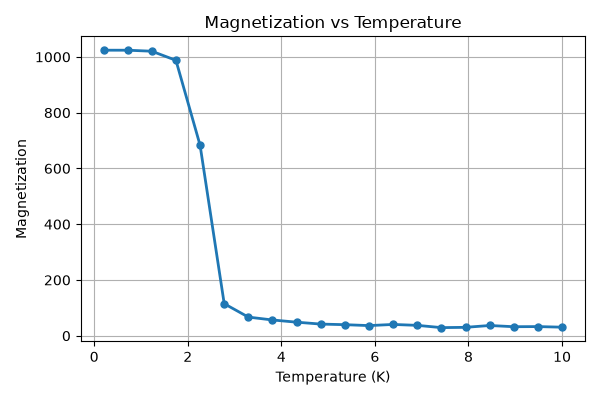
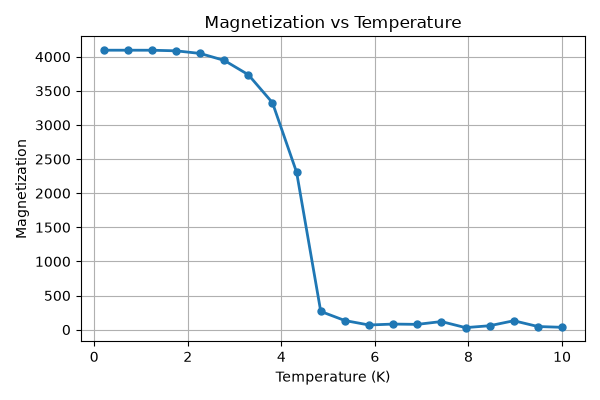
Add 3D Ising model support

diff --git a/src/algorithms.py b/src/algorithms.py
@@ -26,33 +26,26 @@ class WolffAlgorithm:
         spins = self.lattice.spins
         N = self.lattice.size
 
-        i0 = np.random.randint(N)
-        j0 = np.random.randint(N)
+        seed = tuple(np.random.randint(N) for _ in range(self.lattice.dimension))
 
-        spin0 = spins[i0, j0]
+        spin0 = spins[seed]
 
         in_cluster = np.zeros_like(spins, dtype=bool)
-        in_cluster[i0, j0] = True
+        in_cluster[seed] = True
 
-        stack = [(i0, j0)]
+        stack = [seed]
 
         while stack:
-            i, j = stack.pop()
 
-            neighbors = [
-                (self.lattice.wrap_index(i + 1), j),
-                (self.lattice.wrap_index(i - 1), j),
-                (i, self.lattice.wrap_index(j + 1)),
-                (i, self.lattice.wrap_index(j - 1)),
-            ]
+            site = stack.pop()
 
-            for ni, nj in neighbors:
+            for neighbor in self.lattice.neighbors(site):
                 if (
-                    not in_cluster[ni, nj]
-                    and spins[ni, nj] == spin0
+                    not in_cluster[neighbor]
+                    and spins[neighbor] == spin0
                     and np.random.random() < self.bond_probability
                 ):
-                    in_cluster[ni, nj] = True
-                    stack.append((ni, nj))
+                    in_cluster[neighbor] = True
+                    stack.append(neighbor)
 
         spins[in_cluster] *= -1

diff --git a/src/observables.py b/src/observables.py
@@ -7,24 +7,29 @@ def energy(spins: np.ndarray) -> float:
     """
 
     lattice_size = spins.shape[0]
+    dimension = spins.ndim
 
     total_energy = 0.0
 
-    for i in range(lattice_size):
-        for j in range(lattice_size):
+    for site in np.ndindex(spins.shape):
 
-            spin = spins[i, j]
+        spin = spins[site]
+        neighbor_sum = 0
 
-            neighbors = (
-                spins[(i + 1) % lattice_size, j]
-                + spins[(i - 1) % lattice_size, j]
-                + spins[i, (j + 1) % lattice_size]
-                + spins[i, (j - 1) % lattice_size]
-            )
+        for axis in range(dimension):
 
-            total_energy += -spin * neighbors
+            positive = list(site)
+            negative = list(site)
 
-    return total_energy / 4.0
+            positive[axis] = (positive[axis] + 1) % lattice_size
+            negative[axis] = (negative[axis] - 1) % lattice_size
+
+            neighbor_sum += spins[tuple(positive)]
+            neighbor_sum += spins[tuple(negative)]
+
+        total_energy += -spin * neighbor_sum
+
+    return total_energy / (2 * dimension)
 
 
 def magnetization(spins: np.ndarray) -> float:

diff --git a/src/lattice.py b/src/lattice.py
@@ -38,3 +38,26 @@ class IsingLattice:
         """
 
         return index % self.size
+    
+    def neighbors(
+        self,
+        site: tuple[int, ...],
+    ) -> list[tuple[int, ...]]:
+        """
+        Return nearest neighbors of a lattice site.
+        """
+
+        neighbors = []
+
+        for axis in range(self.dimension):
+
+            positive = list(site)
+            negative = list(site)
+
+            positive[axis] = self.wrap_index(positive[axis] + 1)
+            negative[axis] = self.wrap_index(negative[axis] - 1)
+
+            neighbors.append(tuple(positive))
+            neighbors.append(tuple(negative))
+
+        return neighbors

diff --git a/src/runner.py b/src/runner.py
@@ -9,6 +9,7 @@ class MonteCarloRunner:
     def __init__(
         self,
         lattice_size: int,
+        dimension: int,
         temperature: float,
         equilibration_steps: int,
         measurement_steps: int,
@@ -17,7 +18,7 @@ class MonteCarloRunner:
         self.sim = Simulation(
             lattice=IsingLattice(
                 size=lattice_size,
-                dimension=2,
+                dimension=dimension,
             ),
             temperature=temperature,
         )

diff --git a/main.py b/main.py
@@ -17,10 +17,11 @@ def main():
         print(f"Running T = {temperature:.2f} K")
 
         runner = MonteCarloRunner(
-            lattice_size=32,
+            lattice_size=16,
+            dimension=3,
             temperature=temperature,
-            equilibration_steps=1000,
-            measurement_steps=5000,
+            equilibration_steps=200,
+            measurement_steps=500,
         )
 
         result = runner.run()

diff --git a/README.md b/README.md
@@ -1,6 +1,6 @@
-# Ising Model Monte Carlo Simulation
+# 2D / 3D Ising Model Monte Carlo Simulation
 
-A modular Python implementation of the **2D Ising Model** using the **Wolff Cluster Algorithm** for Monte Carlo simulations of phase transitions.
+A modular Python implementation of **2D and 3D Ising Models** using the **Wolff Cluster Algorithm** for Monte Carlo simulations of phase transitions.
 
 ---
 
@@ -8,15 +8,16 @@ A modular Python implementation of the **2D Ising Model** using the **Wolff Clus
 
 The Ising model is one of the most important models in statistical physics for studying ferromagnetism and critical phenomena.
 
-This project implements a two-dimensional square-lattice Ising model with periodic boundary conditions and the Wolff Cluster Algorithm, which efficiently reduces critical slowing down near the phase transition.
+This project implements two- and three-dimensional Ising models with periodic boundary conditions and the Wolff Cluster Algorithm, which efficiently reduces critical slowing down near the phase transition.
 
 ---
 
 ## Features
 
-- 2D square lattice Ising model
+- 2D and 3D Ising models
 - Wolff Cluster Monte Carlo algorithm
 - Periodic boundary conditions
+- Configurable lattice dimension
 - Temperature sweep simulation
 - Automatic calculation of
   - Energy
@@ -65,6 +66,12 @@ pip install -r requirements.txt
 
 ```bash
 python main.py
+The lattice dimension can be selected by setting the `dimension` parameter in `main.py`.
+
+Example:
+
+- `dimension=2` → 2D Ising model
+- `dimension=3` → 3D Ising model
 ```
 
 Running the program automatically:
@@ -122,7 +129,6 @@ The Wolff Cluster Algorithm greatly improves sampling efficiency near the critic
 
 ## Future Work
 
-- 3D Ising Model
 - Metropolis Algorithm
 - Finite-size scaling analysis
 - Binder cumulant
